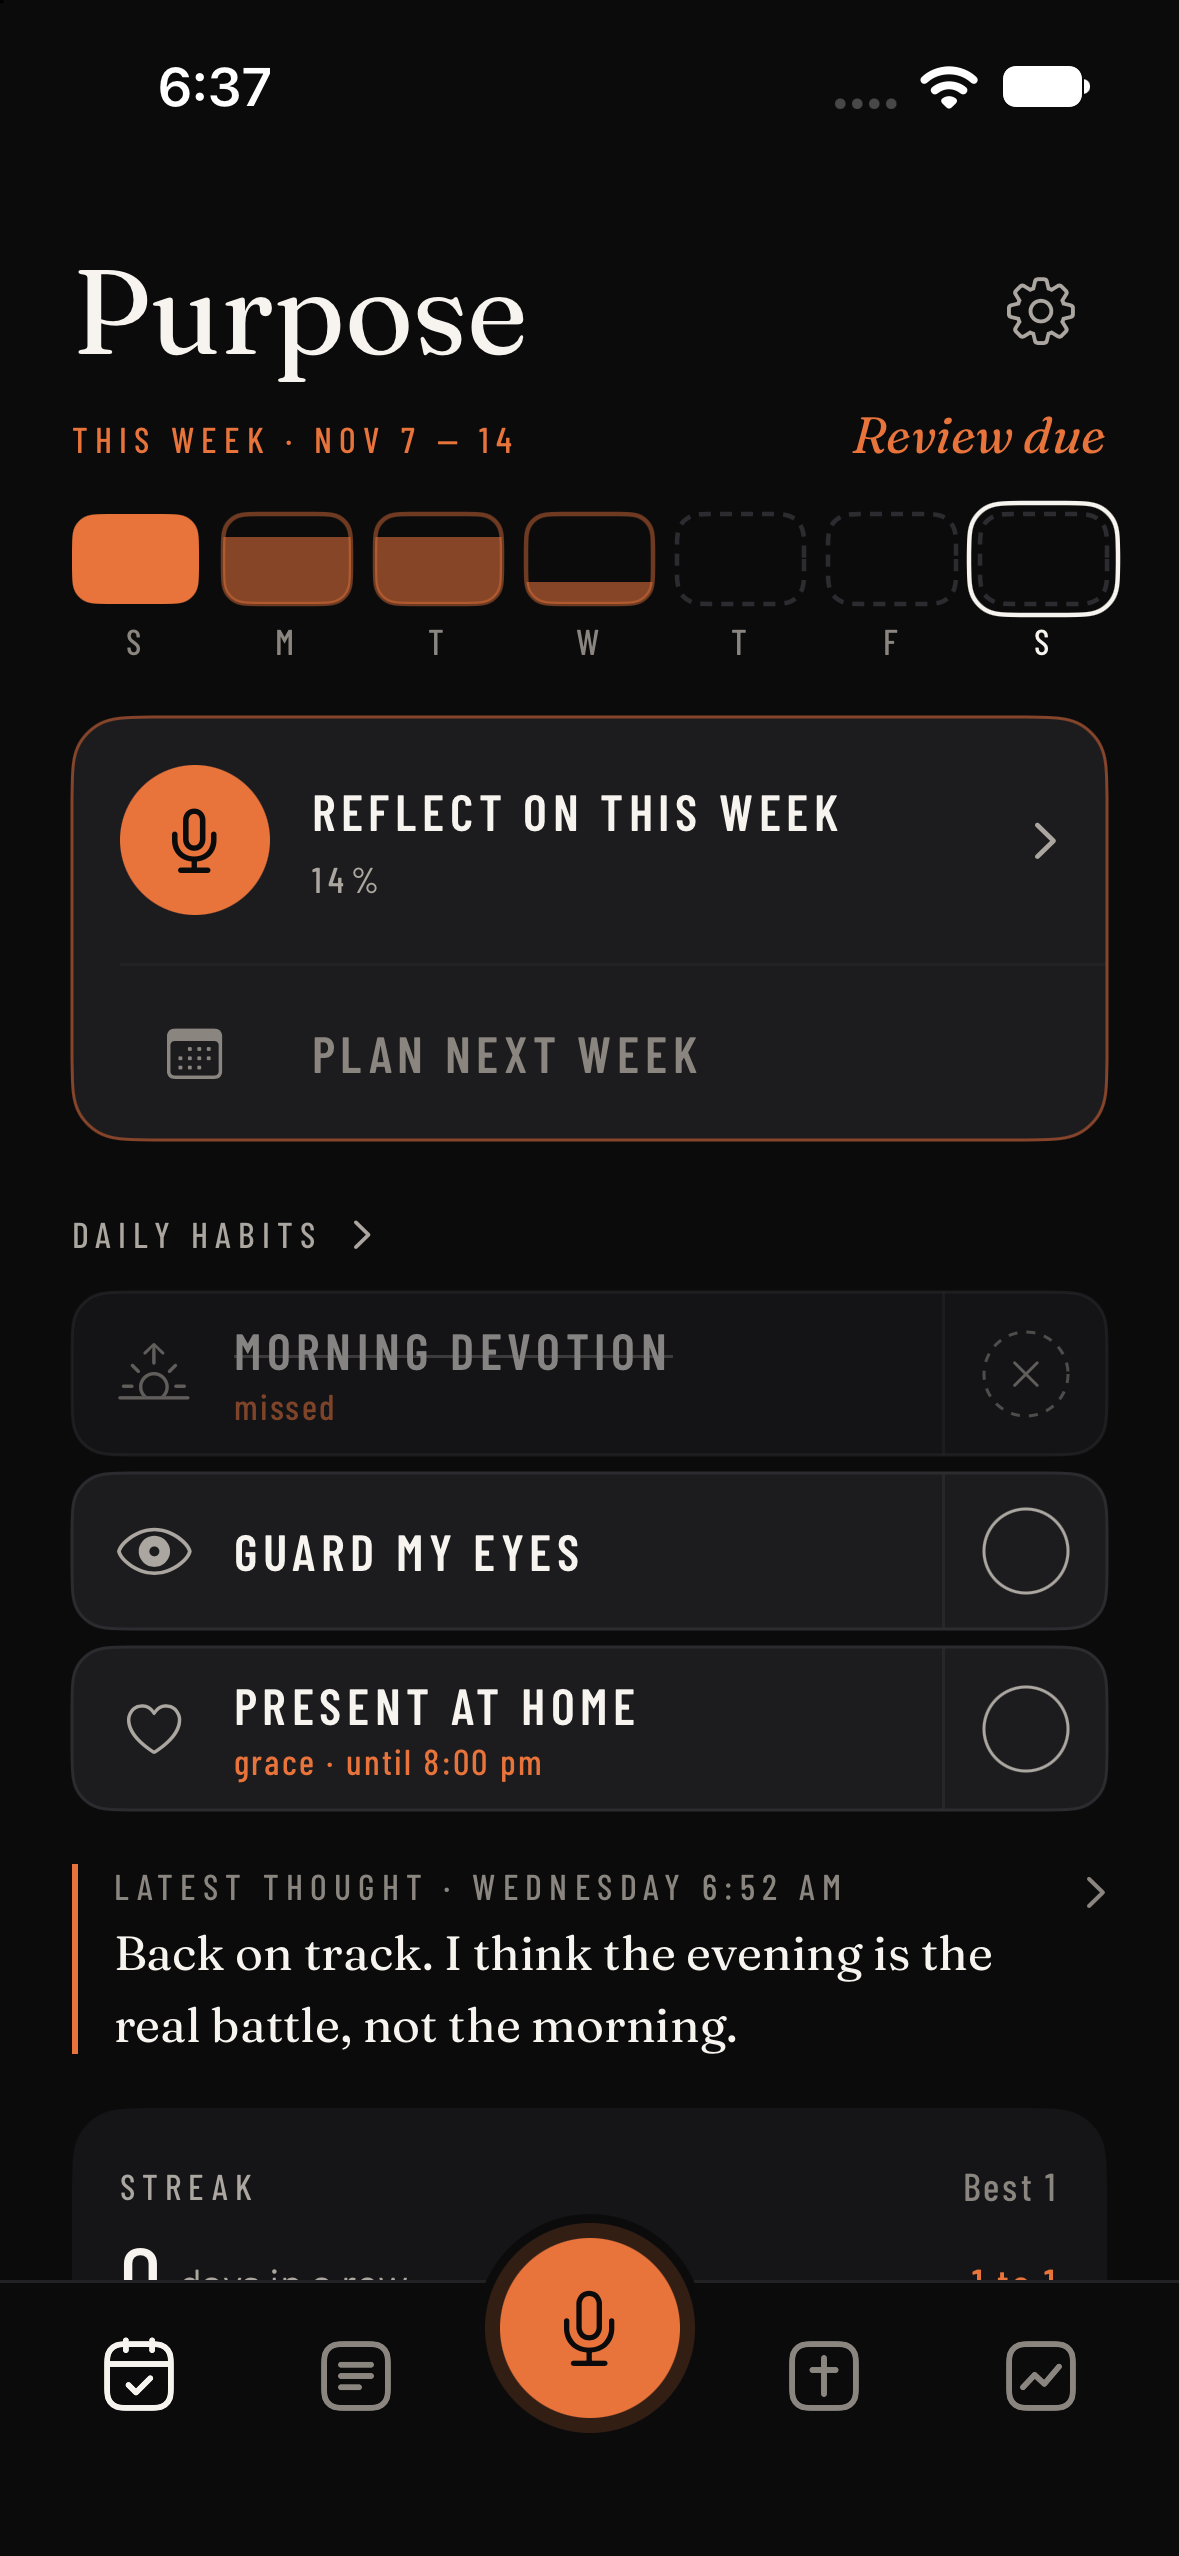
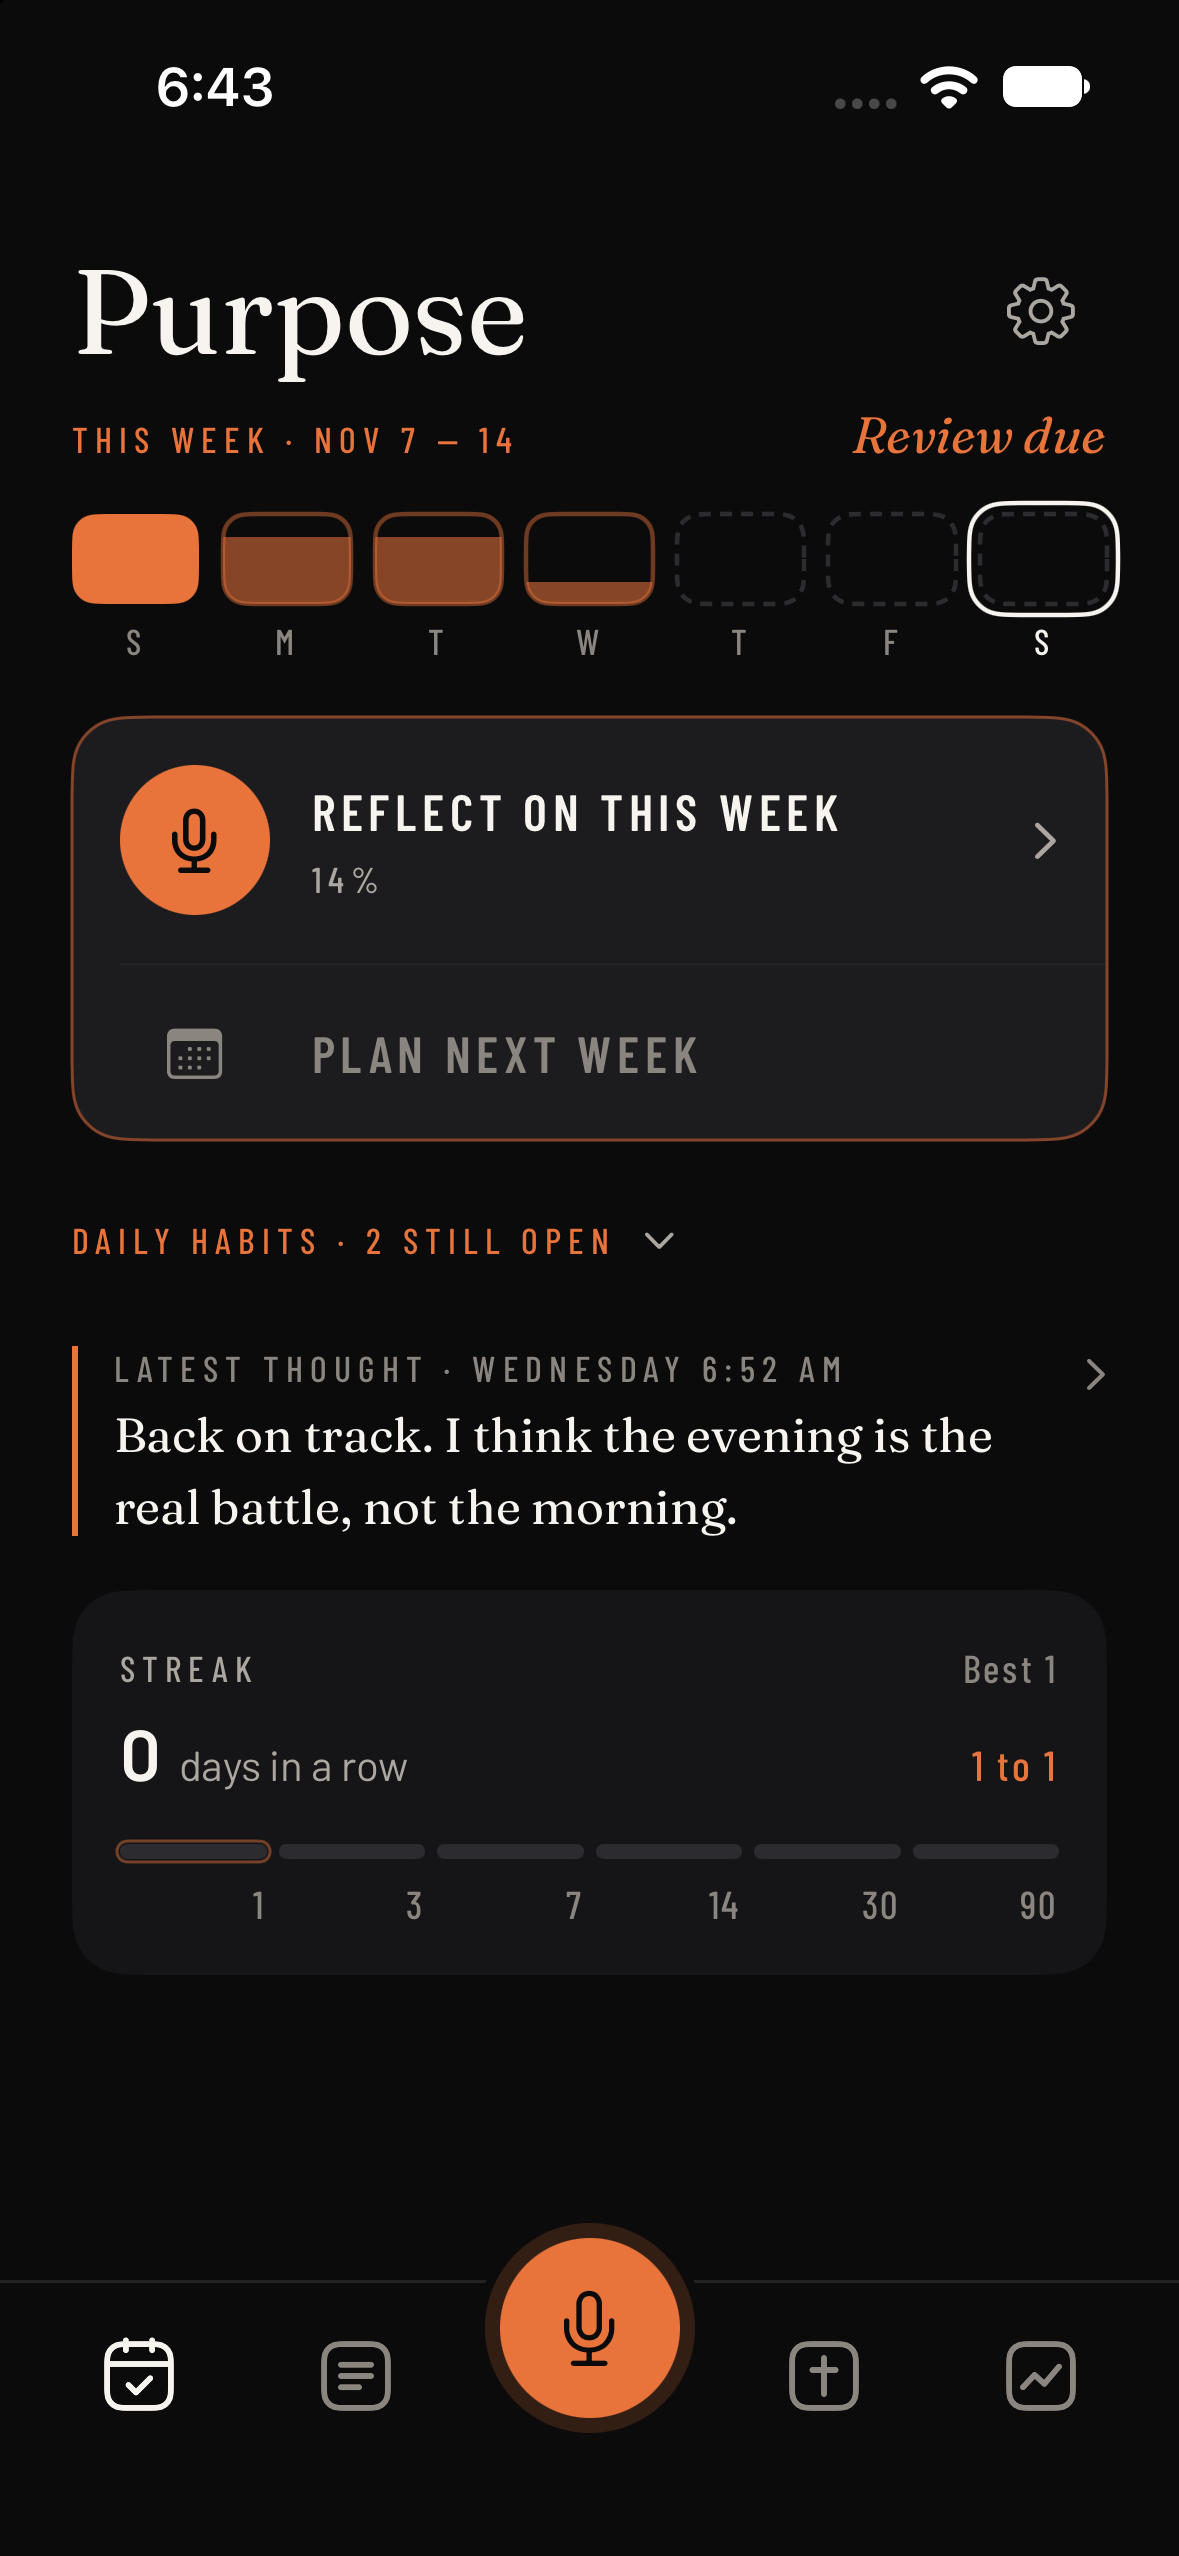
iOS: review block appears from the close hour, or earlier once the day's habits are settled; habits tuck away with it

diff --git a/ios/WeeklyDirection/ThisWeekView.swift b/ios/WeeklyDirection/ThisWeekView.swift
@@ -87,9 +87,11 @@ struct ThisWeekView: View {
         }
         .padding(.top, 6)
         strip(x).padding(.top, 16).rise(0)
-        // review time: Reflect and Plan take the page; once today's habits are settled they tuck away under one row
-        let review = x.due || reviewDay(w, x)
-        let tucked = review && !showHabits && settled(w, x)
+        // Review time (Eddie, Nov 10 2026): from the close hour on, or earlier on review day once every habit of the day
+        // is settled. Until then the page is just the week. When it is review time the habits tuck away under one row.
+        let open = openToday(w, x)
+        let review = x.due || (reviewDay(w, x) && open == 0)
+        let tucked = review && !showHabits
         if review { reviewBlock(w, due: x.due).padding(.top, 18).rise(1) }
         if x.selKey == nil, !x.due, reviewDay(w, x) {
             Text("\(Fmt.dowl[store.settings.closeDay]) · review and plan from \(Fmt.hourLabel(store.settings.closeHour))")
@@ -98,7 +100,7 @@ struct ThisWeekView: View {
         if tucked {
             Button { Haptic.tick(); withAnimation(.spring(response: 0.4, dampingFraction: 0.85)) { showHabits = true } } label: {
                 HStack(spacing: 8) {
-                    Eyebrow(text: "Daily habits · done for today", color: Theme.mu, size: 12)
+                    Eyebrow(text: open > 0 ? "Daily habits · \(open) still open" : "Daily habits · done for today", color: open > 0 ? Theme.ac : Theme.mu, size: 12)
                     Image(systemName: "chevron.down").font(.system(size: 11, weight: .medium)).foregroundStyle(Theme.mu)
                     Spacer()
                 }
@@ -170,16 +172,15 @@ struct ThisWeekView: View {
 
     // MARK: review block, habits header, doses
 
-    /// nothing left to do today: every habit of the day is done, failed or missed, and the doses are taken
-    private func settled(_ w: Week, _ x: Ctx) -> Bool {
-        guard x.habitToday, let d = x.days.first(where: { Rules.ymd($0) == x.todayK }) else { return true }
-        guard x.selKey == x.todayK else { return false }      // looking at another day: leave the list alone
-        let open = w.commitments.filter { Rules.onDay($0, d) }.contains { c in
+    /// how many of today's habits and doses are still open (not done, failed or missed); 0 when today is not a habit day
+    private func openToday(_ w: Week, _ x: Ctx) -> Int {
+        guard x.habitToday, let d = x.days.first(where: { Rules.ymd($0) == x.todayK }) else { return 0 }
+        let habits = w.commitments.filter { Rules.onDay($0, d) }.filter { c in
             let st = Rules.state(w, x.todayK, c)
             return !(st == .done || st == .fail || st == .miss)
         }
-        let doses = Logic.dayItems(w, d, store.settings).filter { $0 == "am" || $0 == "pm" }
-        return !open && doses.allSatisfy { w.flag(x.todayK, $0) }
+        let doses = Logic.dayItems(w, d, store.settings).filter { ($0 == "am" || $0 == "pm") && !w.flag(x.todayK, $0) }
+        return habits.count + doses.count
     }
 
     /// Review time on the main page (Eddie, Nov 10 2026): 1 Reflect on this week (the mic starts it talking, the row

diff --git a/ios/docs/PROGRESS.md b/ios/docs/PROGRESS.md
@@ -13,7 +13,7 @@
 
 ## Review on the main page (Nov 10)
 - This Week on review day / when due: a block under the day strip with "Reflect on this week" (the mic opens the review and starts listening; the row opens it to read or type) and "Plan next week" (muted until the week is closed; opens the review). Replaces the old "Weekly review" card.
-- When every habit of today is done, failed or missed, the habit list tucks away under one row ("Daily habits · done for today", tap to open again).
+- Timing (Eddie, later Nov 10): the block shows from the close hour on, or earlier on review day once every habit of the day is done, failed or missed; before that the page is just the week. Whenever the block shows, the habit list is tucked under one row ("Daily habits · done for today" or "· N still open", tap to open).
 - Review page: no boxes, no standing subtext.
 - Verified: shots `week-review`, `week-due` (habits still open, so not tucked), 13 tests. Not verified: the tucked state, the mic auto-start, on the phone.
 
